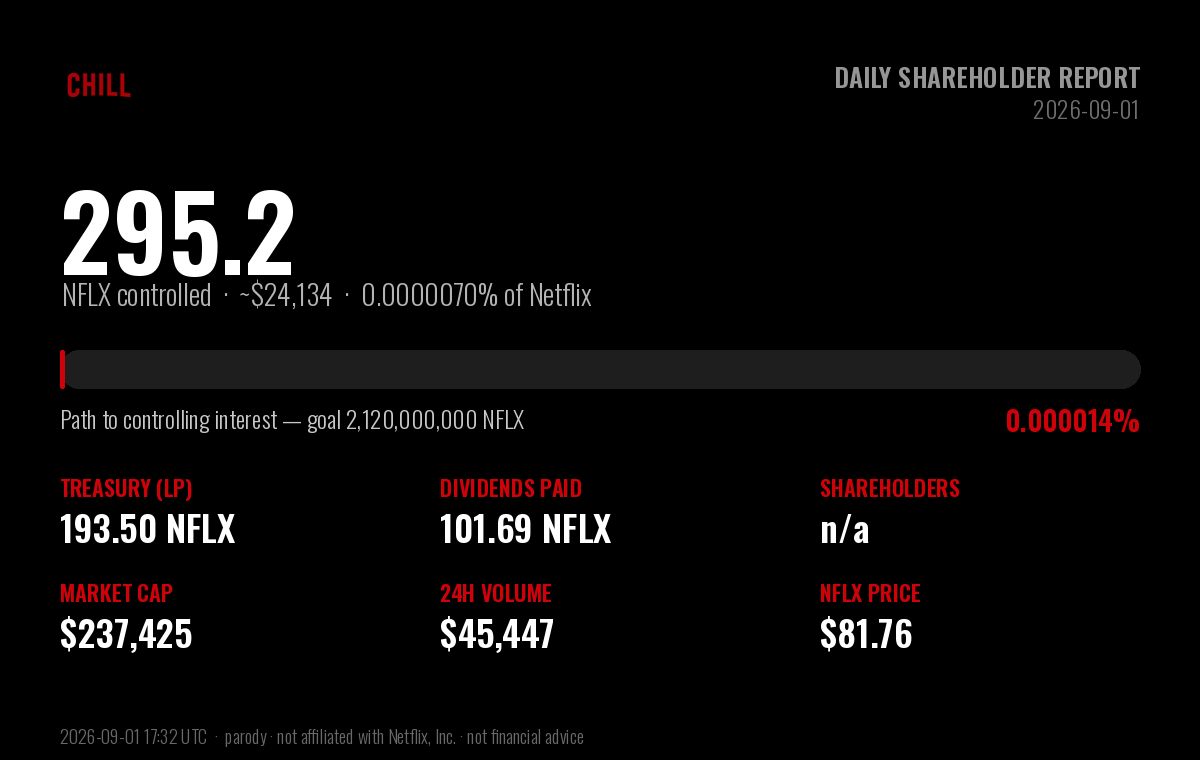
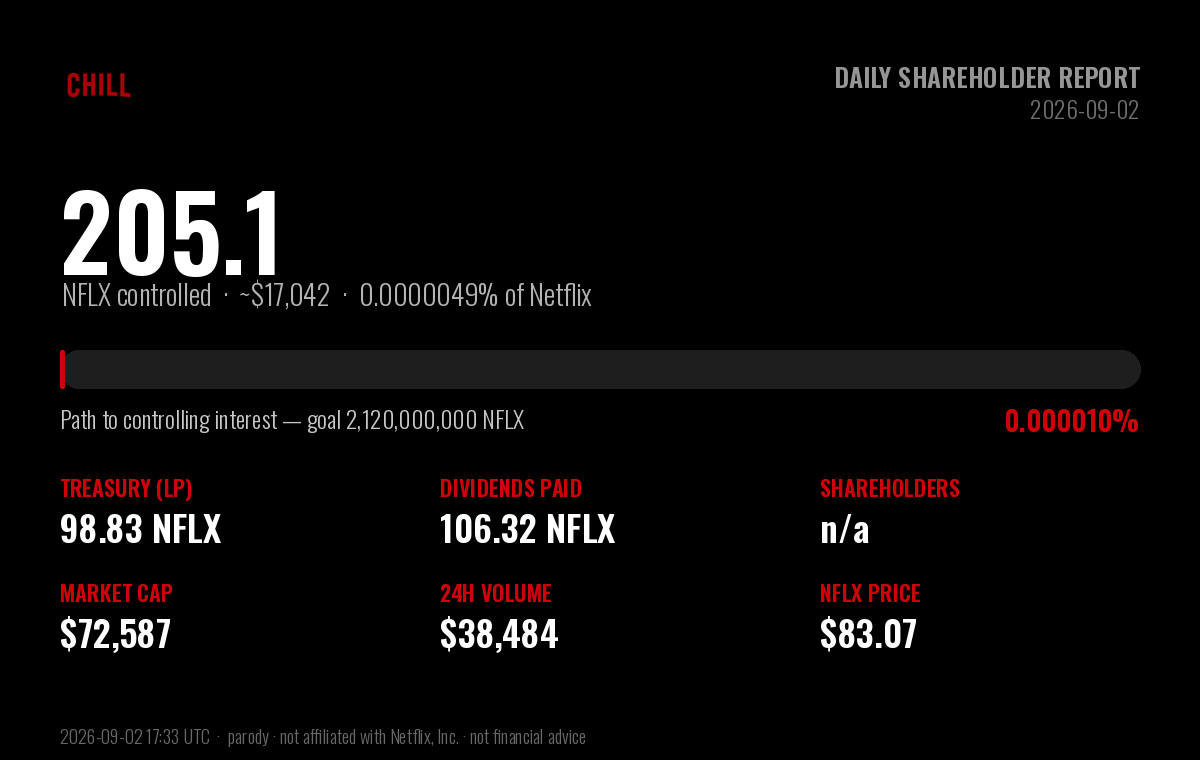
chore: daily $CHILL shareholder report (2026-09-02)

diff --git a/daily-holder-report/README.md b/daily-holder-report/README.md
@@ -1,6 +1,6 @@
 # $CHILL — Daily Shareholder Report
 
-### Netflix and Chill · Report to Shareholders · 2026-09-01
+### Netflix and Chill · Report to Shareholders · 2026-09-02
 
 > **Corporate objective:** acquire a controlling interest in Netflix (NFLX).
 > Netflix has **4,220,000,000** shares outstanding; a majority
@@ -13,53 +13,53 @@
 
 | Metric | Value |
 |---|---|
-| **NFLX under $CHILL control** | **295.18 NFLX** (~$24,134) |
-| Stake in Netflix | 0.000006995% of shares outstanding |
-| Progress to controlling interest | 0.0000139% of 2,120,000,000 |
-| Shares remaining to majority | 2,119,999,705 NFLX |
+| **NFLX under $CHILL control** | **205.15 NFLX** (~$17,042) |
+| Stake in Netflix | 0.000004861% of shares outstanding |
+| Progress to controlling interest | 0.0000097% of 2,120,000,000 |
+| Shares remaining to majority | 2,119,999,795 NFLX |
 
 ## Balance sheet — NFLX holdings
 
 | Holding | NFLX | USD |
 |---|---|---|
-| Treasury (protocol-owned liquidity) | 193.50 | $15,820 |
-| Dividends distributed to shareholders | 101.69 | $8,314 |
-| **Total NFLX controlled** | **295.18** | **$24,134** |
+| Treasury (protocol-owned liquidity) | 98.83 | $8,210 |
+| Dividends distributed to shareholders | 106.32 | $8,832 |
+| **Total NFLX controlled** | **205.15** | **$17,042** |
 
 ## Last 24 hours
 
 | Metric | Value |
 |---|---|
-| Trading volume | 555.87 NFLX (~$45,447) |
-| Net NFLX accumulated | -70.76 NFLX |
-| Dividends generated | 5.5587 NFLX |
-| Transactions | 202 (81 buys / 121 sells) |
-| $CHILL price change | -6.0% |
+| Trading volume | 463.25 NFLX (~$38,484) |
+| Net NFLX accumulated | -94.67 NFLX |
+| Dividends generated | 4.6325 NFLX |
+| Transactions | 238 (147 buys / 91 sells) |
+| $CHILL price change | -25.0% |
 
 ## Shareholder & market data
 
 | Metric | Value |
 |---|---|
 | Shareholders of record | n/a |
-| Lifetime unique participants | 1608 |
+| Lifetime unique participants | 1670 |
 | Shares outstanding ($CHILL) | 1,000,000,000 |
-| Market capitalization | $237,425 |
-| $CHILL price | $0.00023742 |
-| NFLX price | $81.76 |
-| Lifetime volume | 10,168.82 NFLX (~$831,388) |
-| Lifetime transactions | 7,622 (4,267 buys / 3,355 sells) |
-| Days since IPO (launch) | 44 |
+| Market capitalization | $72,587 |
+| $CHILL price | $0.00007259 |
+| NFLX price | $83.07 |
+| Lifetime volume | 10,632.08 NFLX (~$883,247) |
+| Lifetime transactions | 7,860 (4,414 buys / 3,446 sells) |
+| Days since IPO (launch) | 45 |
 
 ## Per-share metrics
 
 | Metric | Value |
 |---|---|
-| NFLX backing per 1M $CHILL | 0.295184 NFLX |
-| Dividends per 1M $CHILL | 0.101688 NFLX |
+| NFLX backing per 1M $CHILL | 0.205146 NFLX |
+| Dividends per 1M $CHILL | 0.106321 NFLX |
 
 ---
 
-*Report generated 2026-09-01 17:32 UTC · block 51,899,661 · data via the Sentry-Robinhood
+*Report generated 2026-09-02 17:33 UTC · block 52,755,028 · data via the Sentry-Robinhood
 subgraph and Robinhood Chain explorer.*
 
 **Disclaimer:** $CHILL is an independent, community-driven **parody** token. It is
